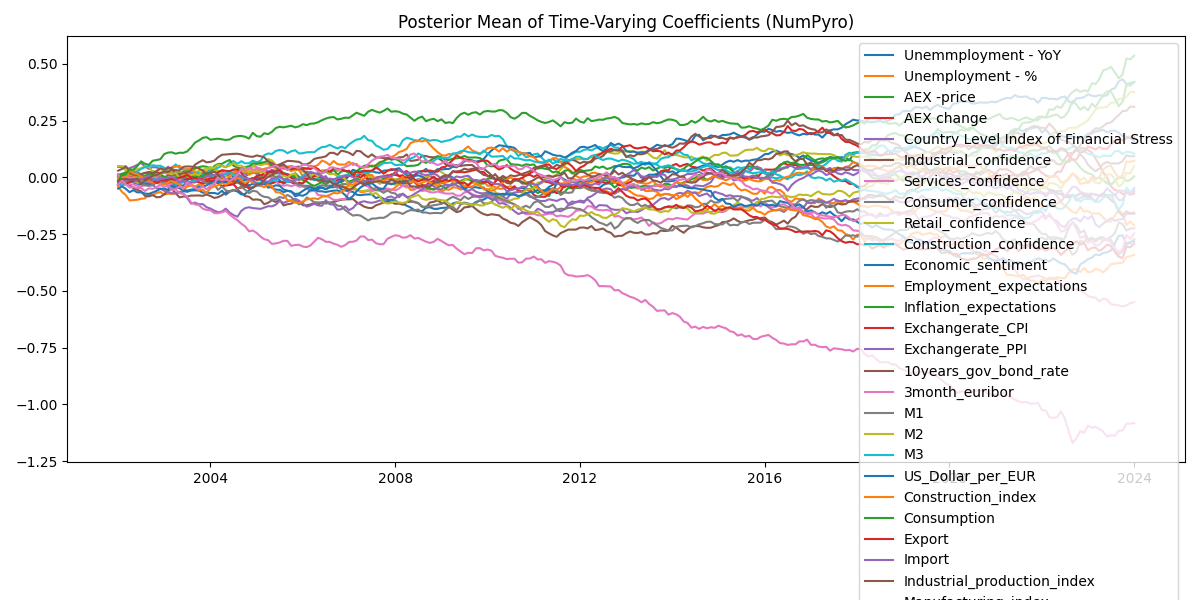
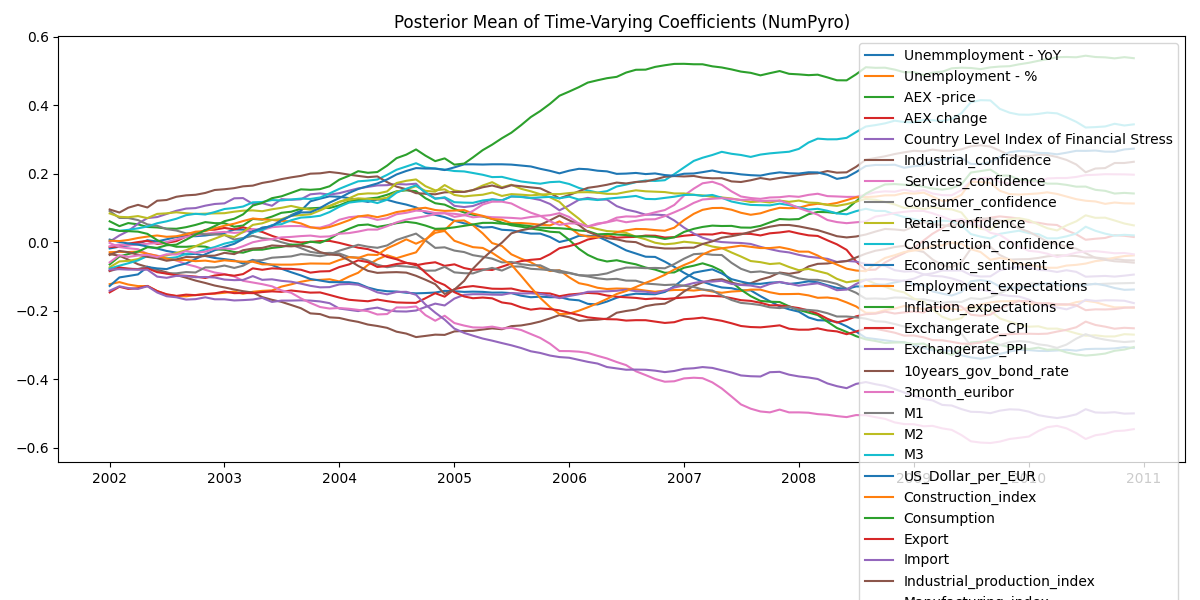
Add Bayesian DLM model and evaluation pipeline

diff --git a/src/bayesian_dlm_reg.py b/src/bayesian_dlm_reg.py
@@ -7,6 +7,7 @@ from numpyro.infer import MCMC, NUTS
 from sklearn.preprocessing import StandardScaler
 import matplotlib.pyplot as plt
 import arviz as az
+from src.utils import train_test_split_time_series
 
 def dlm_model(X, y=None):
     T, P = X.shape
@@ -24,7 +25,8 @@ def dlm_model(X, y=None):
     numpyro.sample("obs", dist.Normal(mu, sigma), obs=y)
 
 
-def run_dlm_dynamic_regression(df, target_col, num_warmup=1500, num_samples=5000, num_chains=4):
+def run_dlm_dynamic_regression(df, target_col, train_start, train_end, test_start, test_end,
+                               num_warmup=1500, num_samples=5000, num_chains=4):
     """ keep_cols = [
         "Unemployment - %",
         "Economic_sentiment",
@@ -35,58 +37,73 @@ def run_dlm_dynamic_regression(df, target_col, num_warmup=1500, num_samples=5000
     X = df[keep_cols].copy()
     y = df[target_col].copy() """
 
-    X = df.drop(columns=[target_col]).copy()
+    X_train, y_train, X_test, y_test = train_test_split_time_series(
+            df, train_start, train_end, test_start, test_end, target_col
+    )
+    X_train, y_train = X_train.align(y_train, join='inner', axis=0)
+    X_train = X_train.dropna()
+    y_train = y_train.loc[X_train.index]
+
+    """  X = df.drop(columns=[target_col]).copy()
     y = df[target_col].copy()
 
     X, y = X.align(y, join='inner', axis=0)
     X = X.dropna()
-    y = y.loc[X.index]
+    y = y.loc[X.index] """
 
     scaler_X = StandardScaler()
     scaler_y = StandardScaler()
 
-    X_scaled = scaler_X.fit_transform(X)
-    y_scaled = scaler_y.fit_transform(y.values.reshape(-1, 1)).flatten()
+    X_train_scaled = scaler_X.fit_transform(X_train)
+    y_train_scaled = scaler_y.fit_transform(y_train.values.reshape(-1, 1)).flatten()
 
     kernel = NUTS(dlm_model)
     mcmc = MCMC(kernel, num_warmup=num_warmup, num_samples=num_samples, num_chains=num_chains)
     rng_key = jax.random.PRNGKey(42)
 
-    mcmc.run(rng_key, X=jnp.array(X_scaled), y=jnp.array(y_scaled))
+    mcmc.run(rng_key, X=jnp.array(X_train_scaled), y=jnp.array(y_train_scaled))
 
     samples = mcmc.get_samples()
 
     mean_beta = jnp.mean(samples["beta"], axis=0)  # (T, P)
-    mean_mu = jnp.mean(samples["mu"], axis=0)  # (T,)
+    mean_mu = jnp.mean(samples["mu"], axis=0)      # (T,)
 
-    # Convert back to numpy
     mean_beta = np.array(mean_beta)
     mean_mu = np.array(mean_mu)
 
-    time_index = y.index.to_numpy()
-
-    # Plot posterior means of beta_t
+    # Plot coefficients over training time
     plt.figure(figsize=(12, 6))
     for j in range(mean_beta.shape[1]):
-        plt.plot(time_index, mean_beta[:, j], label=X.columns[j])
+        plt.plot(X_train.index.to_numpy(), mean_beta[:, j], label=X_train.columns[j])
     plt.title("Posterior Mean of Time-Varying Coefficients (NumPyro)")
     plt.legend()
     plt.tight_layout()
     plt.savefig("results/dlm_dynamic_betas_numpyro.png")
     plt.close()
 
-    # Forecast vs Actual
+    # Forecast on test set using last beta from training (simple approach)
+    # Optionally, you can extend the model to forecast dynamically
+    beta_last = mean_beta[-1, :]  # shape (P,)
+    X_test_scaled = scaler_X.transform(X_test)
+    mu_test = X_test_scaled @ beta_last
+
+    # Scale back predictions to original scale
+    mu_test_original = scaler_y.inverse_transform(mu_test.reshape(-1, 1)).flatten()
+
+    # Calculate test RMSE
+    residuals_test = mu_test_original - y_test.values
+    rmse_test = np.sqrt(np.mean(residuals_test ** 2))
+
+    # Plot forecast vs actual for test period
     plt.figure(figsize=(10, 4))
-    plt.plot(time_index, y_scaled, label="Observed (scaled)")
-    plt.plot(time_index, mean_mu, label="DLM Prediction (scaled)", linestyle="--")
-    plt.title("Dynamic Linear Regression Forecast (NumPyro)")
+    plt.plot(y_test.index.to_numpy(), y_test.values, label="Observed")
+    plt.plot(y_test.index.to_numpy(), mu_test_original, label="DLM Prediction", linestyle="--")
+    plt.title("Dynamic Linear Regression Forecast (Test Set)")
     plt.legend()
     plt.tight_layout()
-    plt.savefig("results/dlm_dynamic_forecast_numpyro.png")
+    plt.savefig("results/dlm_dynamic_forecast_test_numpyro.png")
     plt.close()
 
-    residuals = mean_mu - y_scaled
-    rmse = np.sqrt(np.mean(residuals ** 2))
-    print(f"NumPyro DLM RMSE (scaled): {rmse:.4f}")
+    print(f"NumPyro DLM RMSE (Test): {rmse_test:.4f}")
 
-    return samples, rmse
+    return samples, rmse_test

diff --git a/src/utils.py b/src/utils.py
@@ -1,4 +1,26 @@
-def train_test_split_series(series, test_size):
-    train = series.iloc[:-test_size]
-    test = series.iloc[-test_size:]
-    return train, test
+def train_test_split_time_series(df, train_start, train_end, test_start, test_end, target_col):
+    """
+    Splits a DataFrame into train and test sets based on datetime index.
+
+    Args:
+        df (pd.DataFrame): Full dataset with datetime index.
+        train_start (str or pd.Timestamp): Training start date.
+        train_end (str or pd.Timestamp): Training end date.
+        test_start (str or pd.Timestamp): Test start date.
+        test_end (str or pd.Timestamp): Test end date.
+        target_col (str): Name of the target column.
+
+    Returns:
+        X_train, y_train, X_test, y_test (pd.DataFrame or pd.Series): Split data.
+    """
+    df_train = df.loc[train_start:train_end].copy()
+    df_test = df.loc[test_start:test_end].copy()
+
+    X_train = df_train.drop(columns=[target_col])
+    y_train = df_train[target_col]
+
+    X_test = df_test.drop(columns=[target_col])
+    y_test = df_test[target_col]
+
+    return X_train, y_train, X_test, y_test
+

diff --git a/main.py b/main.py
@@ -78,8 +78,15 @@ for model_name, model_desc in main_pbar:
         elif model_name == "Bayesian DLM (SMC)":
             _, rmse = run_dlm_numpyro(df, target_col)
         elif model_name == "Bayesian DLM (DR)":
-            trace, rmse = run_dlm_dynamic_regression(df, target_col)
-                    
+            trace, rmse = run_dlm_dynamic_regression(
+                df,
+                target_col="CPI - YoY",
+                train_start="2001-12-31",
+                train_end="2019-12-31",  
+                test_start="2020-01-01",
+                test_end="2023-12-31"
+            )
+
         # Store result
         rmse_results[model_name] = rmse
         
